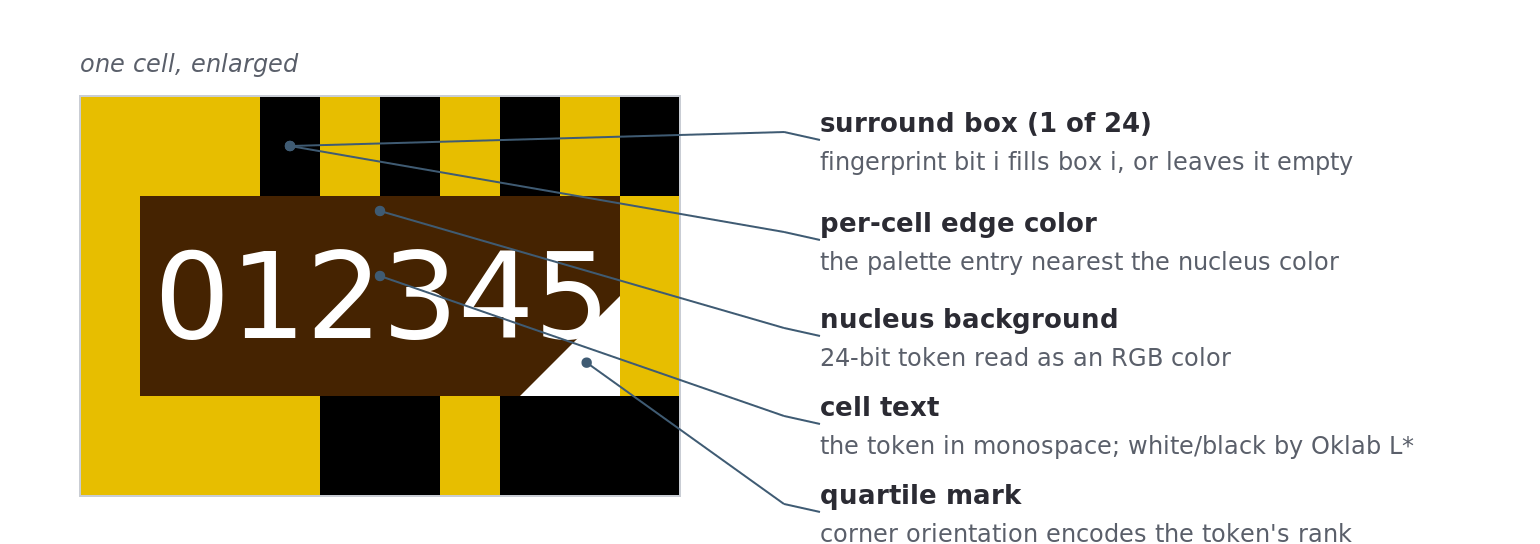
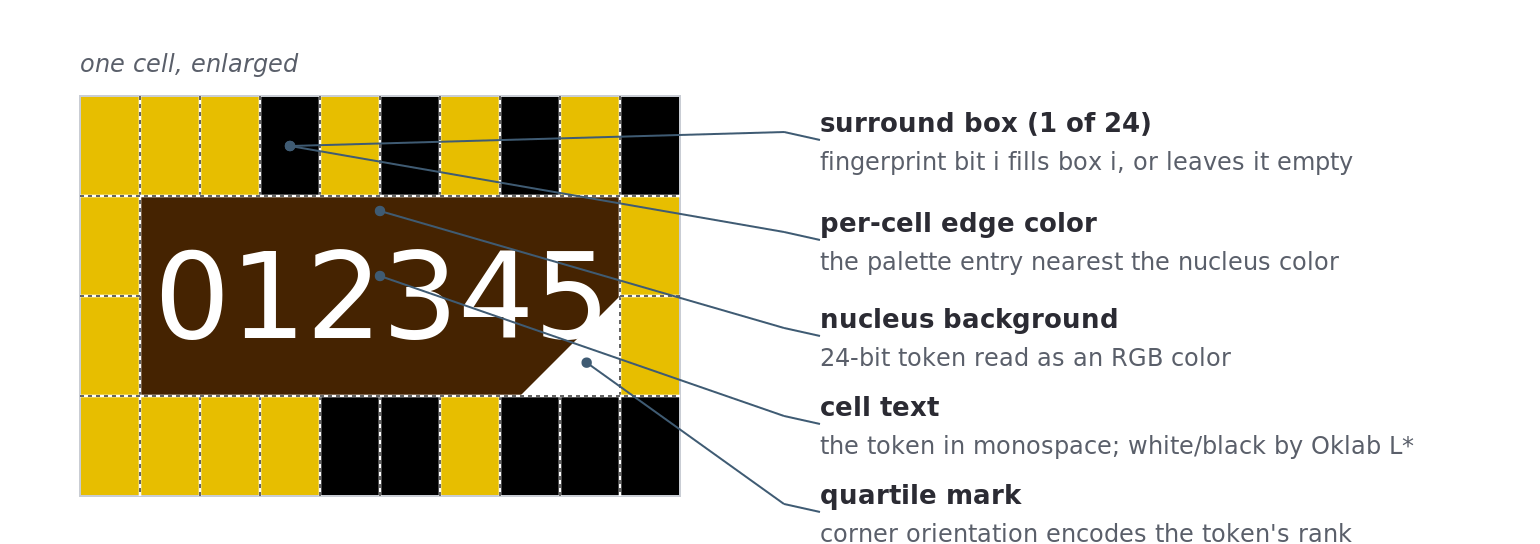
paper: draw the 24-box surround grid in Figure 4a
The caption said "24-box surround" but nothing showed where the boxes were —
the reader had to guess. Figure 4a now overlays the box-ring boundaries as
black dashed lines over a white underlay (an "ants" line, legible on any box
color). The 24 boxes are the perimeter ring of a 10x4 box grid; the interior
8x2 is the nucleus, so the grid delineates the ring and leaves the nucleus
clear. Regenerated; drift guard green.

diff --git a/scripts/paper_figures.py b/scripts/paper_figures.py
@@ -34,7 +34,7 @@ OUT = os.path.join(figlib.REPO_ROOT, "docs", "assets", "paper")
 # ===========================================================================
 
 def fig_cell_anatomy():
-    """Figure 4a — labelled anatomy of one v7 cell."""
+    """Figure 4a — labelled anatomy of one cell."""
     art = render("0123456789abcdef0123456789abcdef", font_size_pt=24)
     root = parse(art)
     c0 = cells(root)[0]
@@ -64,6 +64,32 @@ def fig_cell_anatomy():
     s = [svg_open(W, H), nested]
     s.append(rect(art_x, art_y, art_w, art_h, stroke=HAIR, sw=1))
     s.append(text(art_x, art_y - 12, "one cell, enlarged", size=T_SMALL, fill=INK2, italic=True))
+
+    # Overlay the 24-box surround grid so the reader can see where the boxes
+    # live. The 24 boxes tile the perimeter ring of a 10x4 box grid; the
+    # interior 8x2 is the nucleus. Each boundary is a black dashed line over a
+    # white underlay (an "ants" line), so it reads on any box color.
+    bw_, bh_ = cw / 10.0, ch / 4.0
+
+    def gridline(ax1, ay1, ax2, ay2):
+        (gx1, gy1), (gx2, gy2) = mp(ax1, ay1), mp(ax2, ay2)
+        return (line(gx1, gy1, gx2, gy2, stroke="#ffffff", w=1.3)
+                + line(gx1, gy1, gx2, gy2, stroke="#000000", w=0.6, dash="2 2"))
+
+    # full-height verticals at the nucleus side edges (box boundaries throughout)
+    for ax in (cx0 + bw_, cx0 + 9 * bw_):
+        s.append(gridline(ax, cy0, ax, cy0 + ch))
+    # top- and bottom-row internal verticals (skip the nucleus middle band)
+    for k in range(2, 9):
+        ax = cx0 + k * bw_
+        s.append(gridline(ax, cy0, ax, cy0 + bh_))
+        s.append(gridline(ax, cy0 + 3 * bh_, ax, cy0 + ch))
+    # horizontals dividing the top and bottom rows from the middle band
+    for ay in (cy0 + bh_, cy0 + 3 * bh_):
+        s.append(gridline(cx0, ay, cx0 + cw, ay))
+    # dividers splitting the two stacked boxes in each side column
+    s.append(gridline(cx0, cy0 + 2 * bh_, cx0 + bw_, cy0 + 2 * bh_))
+    s.append(gridline(cx0 + 9 * bw_, cy0 + 2 * bh_, cx0 + 10 * bw_, cy0 + 2 * bh_))
 
     items = [
         (mp(nx + nw / 2, ny + 3), "nucleus background", "24-bit token read as an RGB color"),